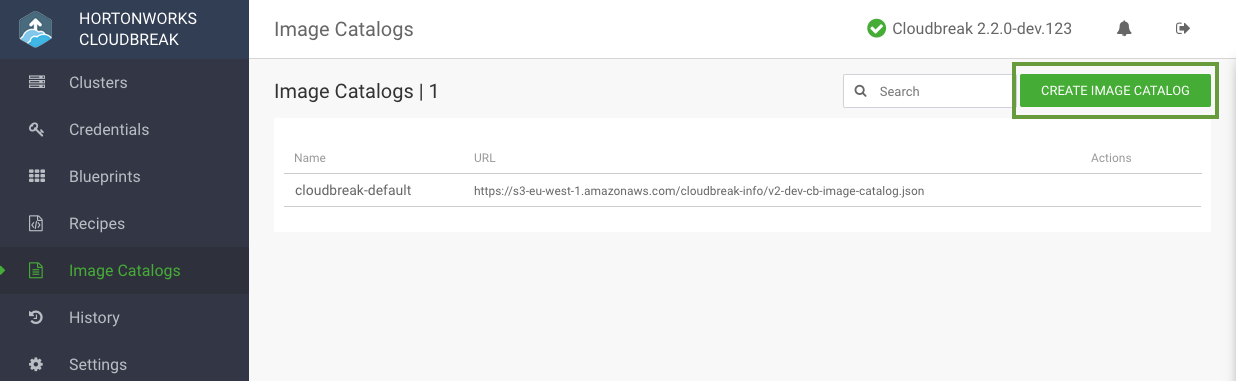
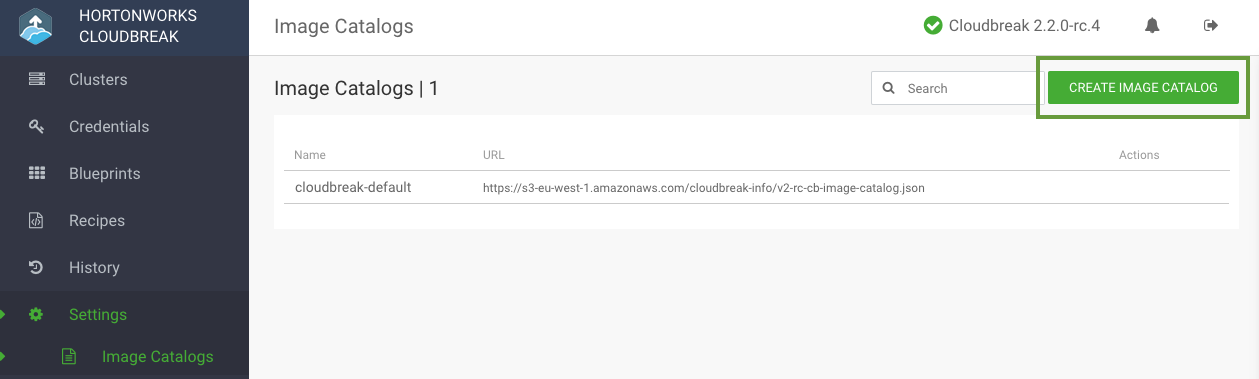
Image catalog screenshot

diff --git a/docs/images.md b/docs/images.md
@@ -190,7 +190,7 @@ Use these steps to register your custom image catalog in the Cloudbreak UI.
 
 **Steps**
 
-1. In the Cloudbreak UI, select **Image Catalogs** from the navigation menu.  
+1. In the Cloudbreak UI, select **Settings** > **Image Catalogs** from the navigation menu.  
 2. Click **Create Image Catalog**.
     <a href="../images/cb-images-register.png" target="_blank" title="click to enlarge"><img src="../images/cb-images-register.png" width="650" title="Cloudbreak UI"></a>
   
